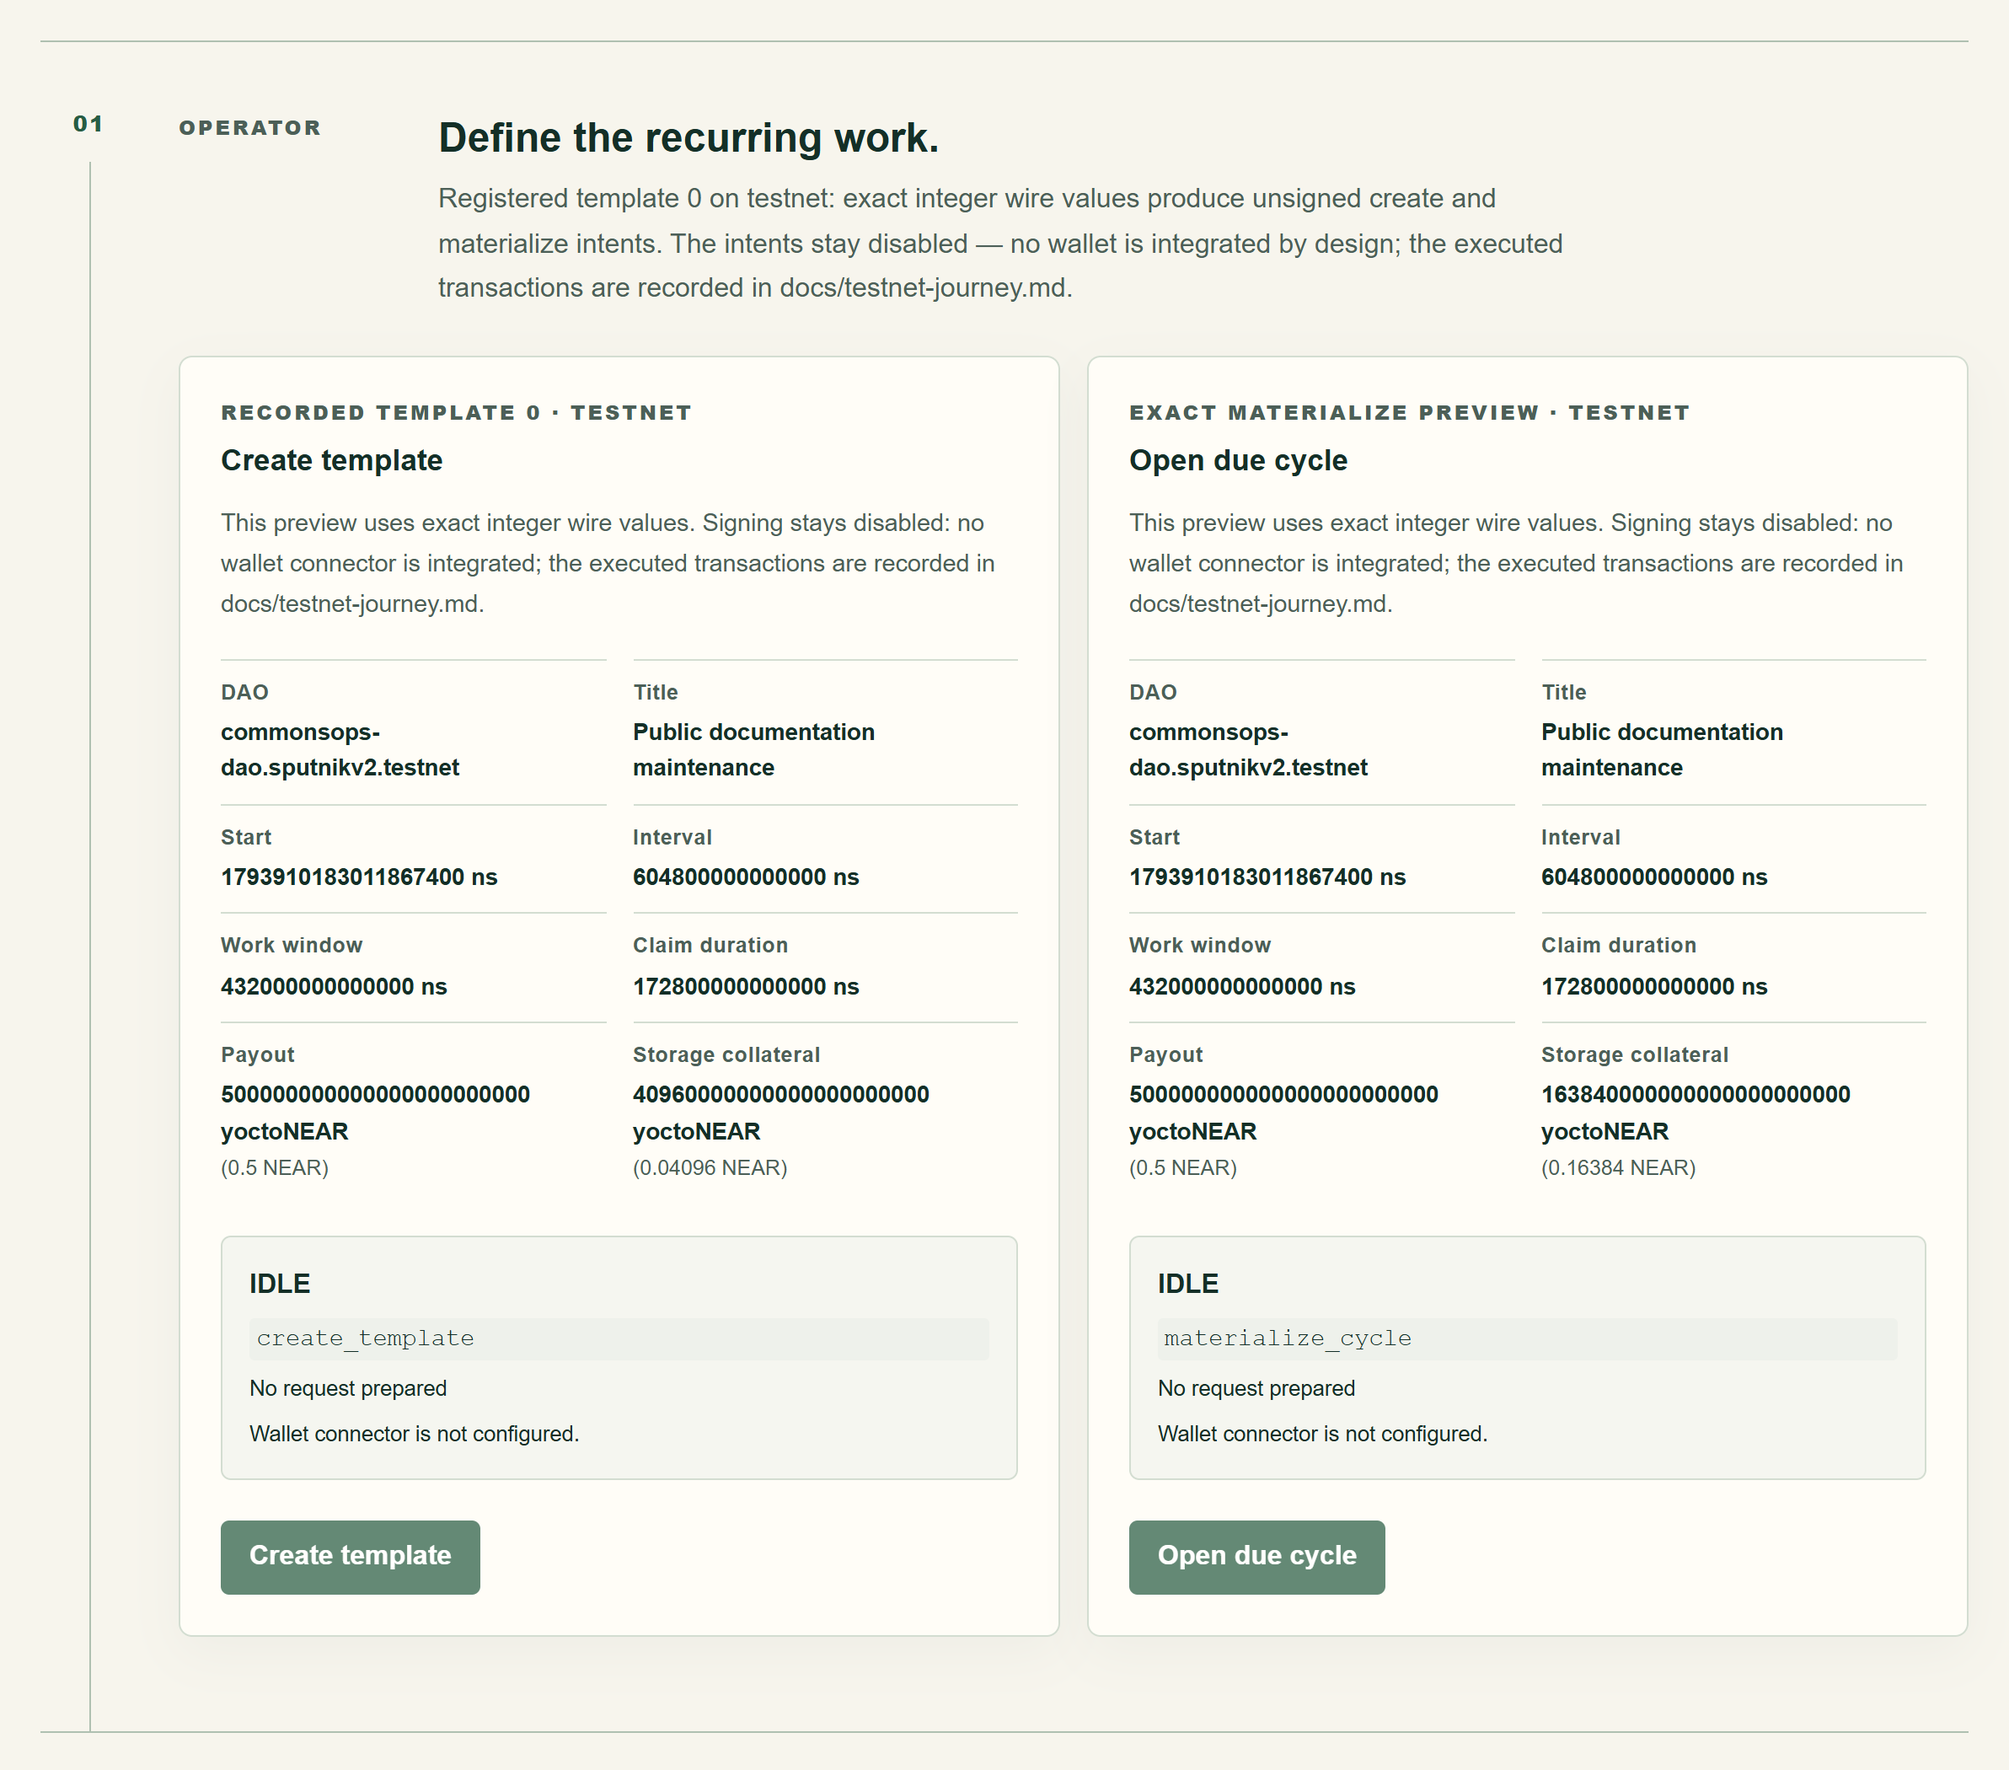
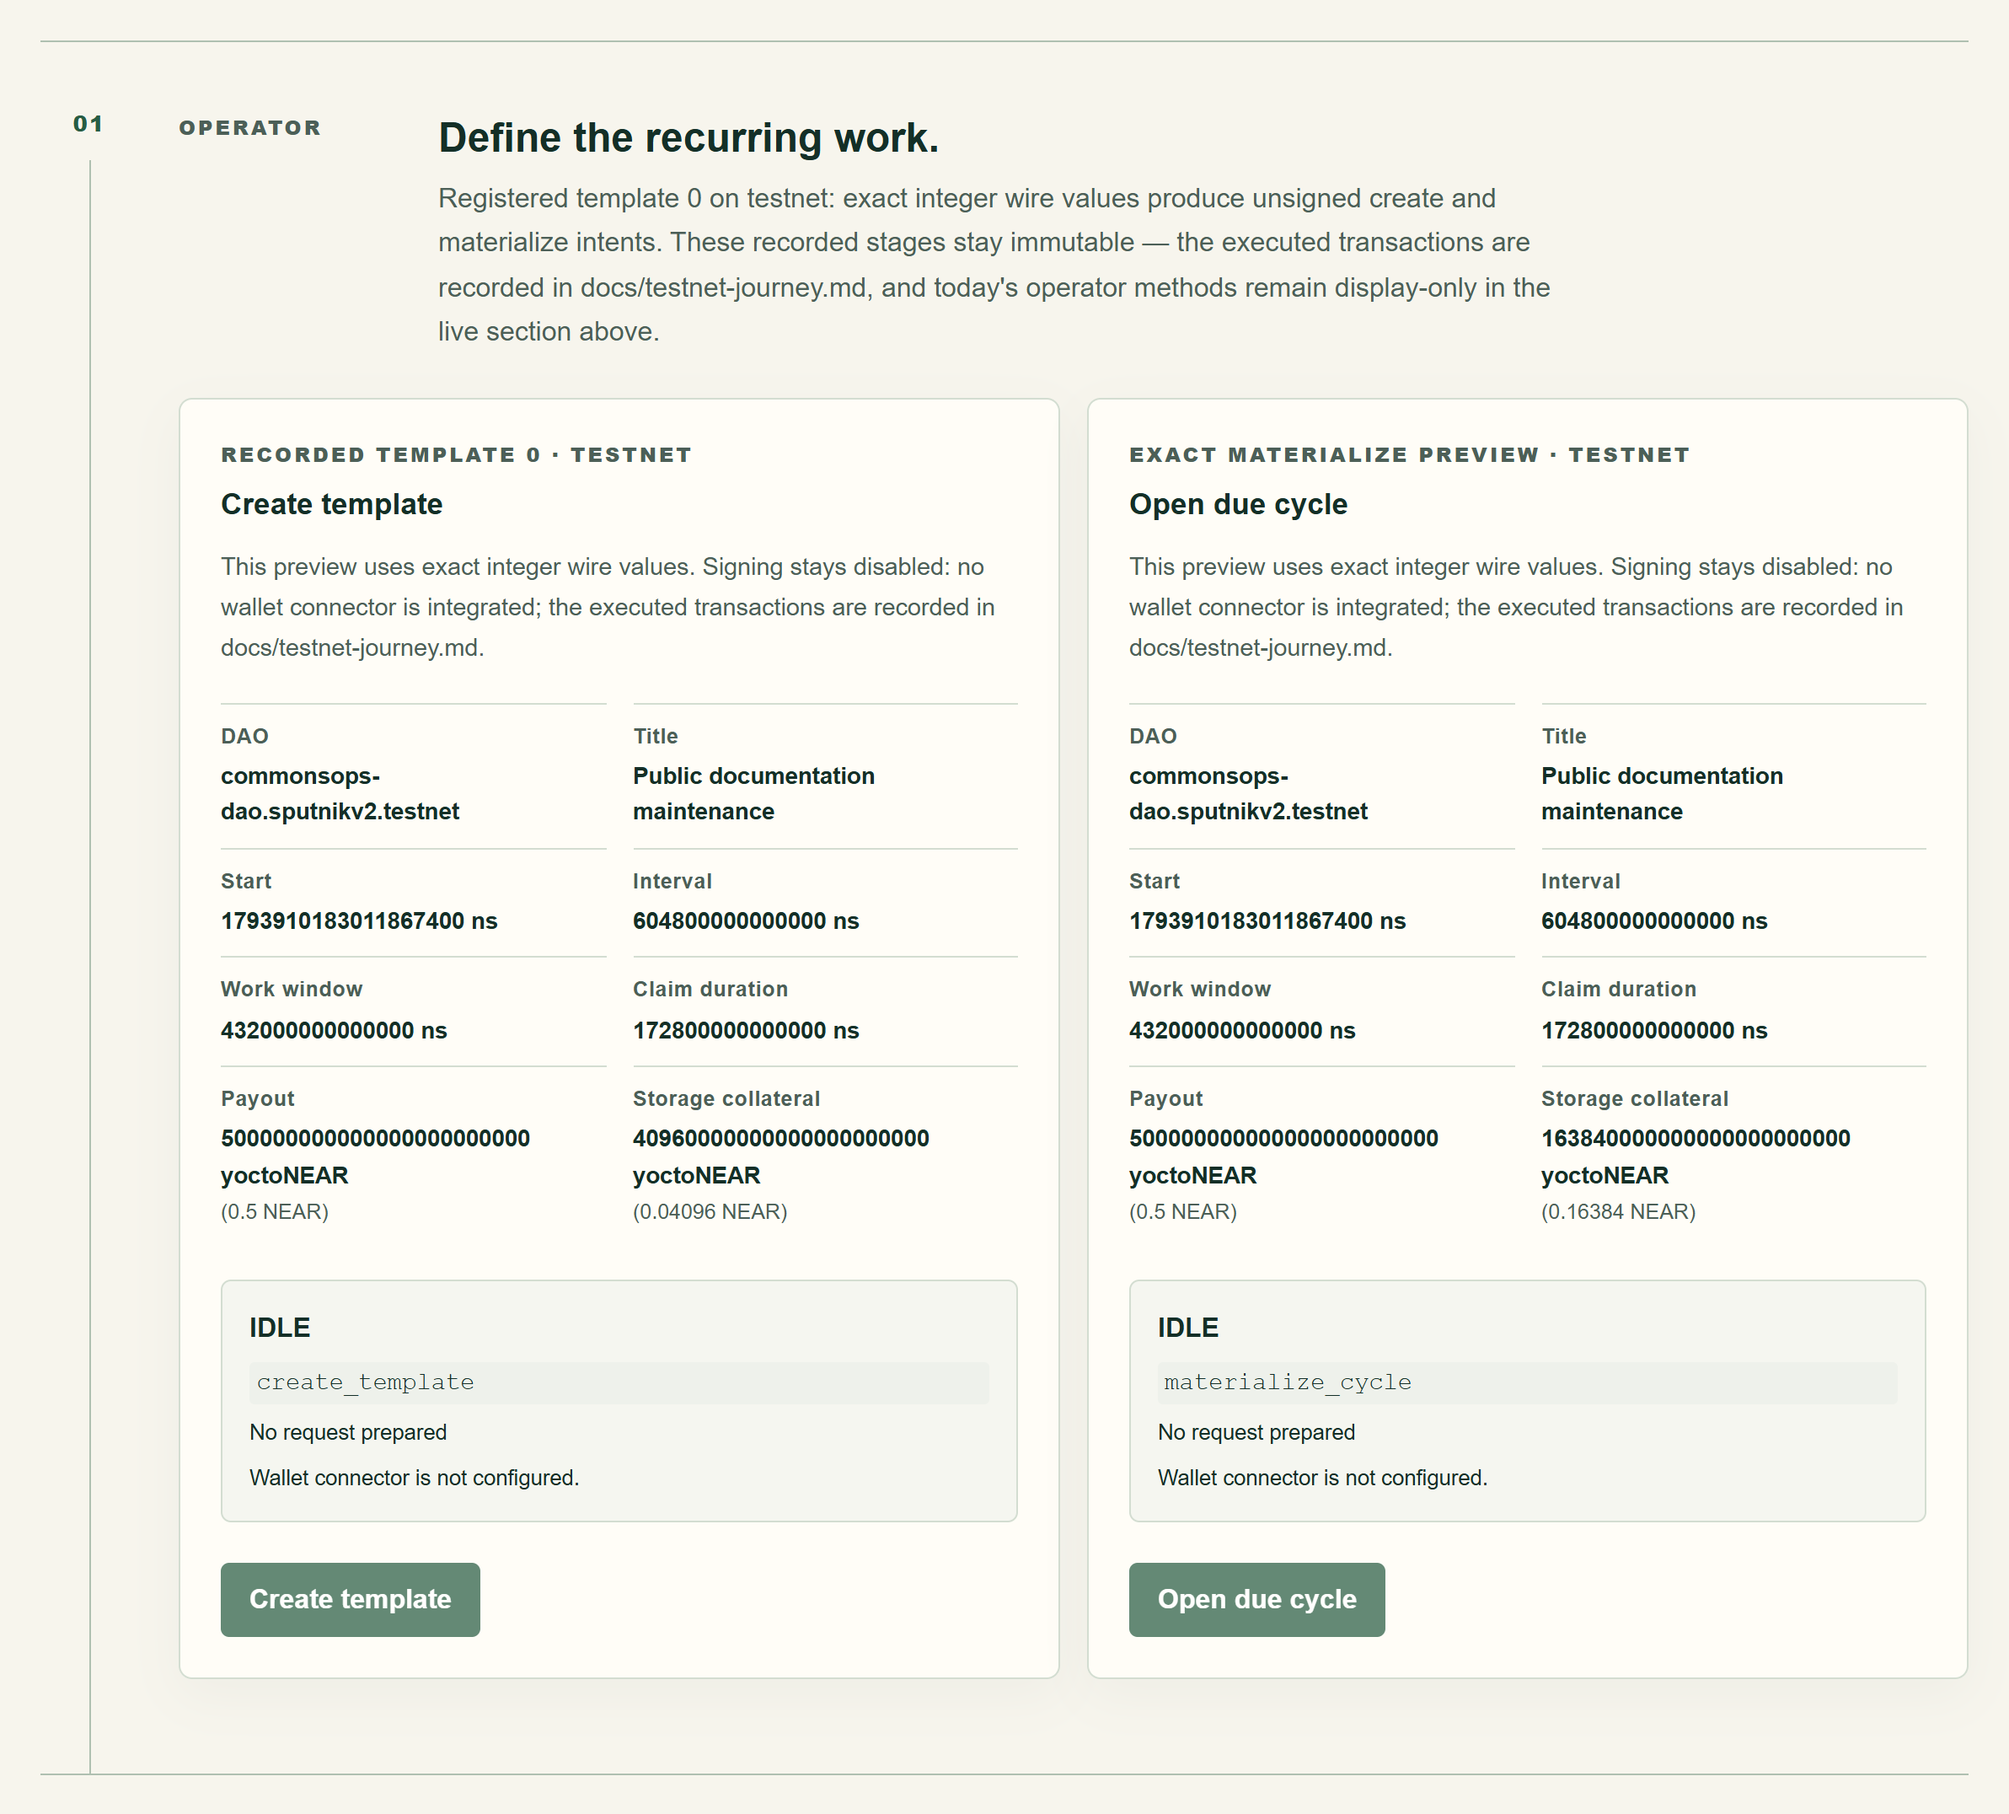
docs: reflect the live registry surface in llms.txt, demo guide, and screenshots
- llms.txt: workspace description and boundaries updated for the live
  surface (real testnet RPC reads, user-signed transactions,
  testnet-only wallet selector; payouts still never simulated in-app)
- demo/README.md: screenshot map rows reworded for the recorded-journey
  workspace, new 09-live-registry row
- screenshots: all frames re-rendered from the live-surface build
  (true 2x Chromium), plus the new 09-live-registry frame showing the
  real RPC reads and the wallet connect control

diff --git a/demo/README.md b/demo/README.md
@@ -28,15 +28,16 @@ place.
 
 | File                                                    | Journey step                                                                                                                                                                                                                                                                                                                | Live testnet evidence in `docs/testnet-journey.md`                                                                                                                                                                                                                                                                                                                         |
 | ------------------------------------------------------- | --------------------------------------------------------------------------------------------------------------------------------------------------------------------------------------------------------------------------------------------------------------------------------------------------------------------------- | -------------------------------------------------------------------------------------------------------------------------------------------------------------------------------------------------------------------------------------------------------------------------------------------------------------------------------------------------------------------------- |
-| `screenshots/01-hero.png`                               | Product hero and the recorded-live-journey banner (stages 1–3 are immutable recorded snapshots; no wallet, RPC, or GitHub request)                                                                                                                                                                                          | Journey overview (network `testnet`, registry `commonsops.testnet`, DAO `commonsops-dao.sputnikv2.testnet`)                                                                                                                                                                                                                                                                |
-| `screenshots/02-network-boundary.png`                   | Connection boundary: testnet registry deployed (`commonsops.testnet`), mainnet isolated and unconfigured; no in-app RPC and no signing by design                                                                                                                                                                            | Same network facts; live operations stay in scripts (below)                                                                                                                                                                                                                                                                                                                |
+| `screenshots/01-hero.png`                               | Product hero and the recorded-live-journey banner (journey stages 1–3 render immutable recorded snapshots)                                                                                                                                                                                                                  | Journey overview (network `testnet`, registry `commonsops.testnet`, DAO `commonsops-dao.sputnikv2.testnet`)                                                                                                                                                                                                                                                                |
+| `screenshots/02-network-boundary.png`                   | Connection boundary: testnet registry deployed (`commonsops.testnet`), mainnet isolated and unconfigured                                                                                                                                                                                                                    | Same network facts; live operations stay in scripts (below)                                                                                                                                                                                                                                                                                                                |
 | `screenshots/03-operator.png`                           | Stage 1 — operator defines the recurring work: unsigned `create_template` and `materialize_cycle` intent previews with the exact recorded template-0 wire values, signing disabled                                                                                                                                          | Journey steps 2–3: template `0` registration ([`FWqT2A6oT8xXRuVkmdxFQbigcLwG9Jao2DfGmie92WH7`](https://explorer.testnet.near.org/transactions/FWqT2A6oT8xXRuVkmdxFQbigcLwG9Jao2DfGmie92WH7)) and cycle `0:0` opened ([`3MV5x4hUjC8Z7uQmcdRJebiyUR4sq67dFJcnUo2nXJCt`](https://explorer.testnet.near.org/transactions/3MV5x4hUjC8Z7uQmcdRJebiyUR4sq67dFJcnUo2nXJCt))        |
 | `screenshots/04-contributor.png`                        | Stage 2 — contributor claims and binds evidence: recorded `CLAIMED` cycle `0:0` with claimant = payout recipient (`commonsops.testnet`), recipient-binding panel, canonical GitHub evidence preview                                                                                                                         | Journey steps 4–5: claim binds recipient ([`8LB4W2qWxaKsRRJMyfyw1NYWiDK6bDjh7ejyRKQ42tYe`](https://explorer.testnet.near.org/transactions/8LB4W2qWxaKsRRJMyfyw1NYWiDK6bDjh7ejyRKQ42tYe)) and immutable evidence submission ([`6sqUZaFfoLacYihADUmBSqKbMS7mxvBsQKcUbzfAWz99`](https://explorer.testnet.near.org/transactions/6sqUZaFfoLacYihADUmBSqKbMS7mxvBsQKcUbzfAWz99)) |
 | `screenshots/05-reviewer-approved-only.png`             | Stage 3 — reviewer boundary: "Approved alone is not payment" (`PENDING_PAYMENT_EVIDENCE` without a finalized causal receipt graph), trust/authorization boundary                                                                                                                                                            | Journey steps 6–7: DAO transfer proposal ([`CAX6EJvvN71BxTP8NDdwmrPiryYeRKcJXK3tPhfp591F`](https://explorer.testnet.near.org/transactions/CAX6EJvvN71BxTP8NDdwmrPiryYeRKcJXK3tPhfp591F)) and council approval ([`ApRvPUsw2d5gn3N4SxTe7Wbv7nPcJRDTtWc7j9LwAoP7`](https://explorer.testnet.near.org/transactions/ApRvPUsw2d5gn3N4SxTe7Wbv7nPcJRDTtWc7j9LwAoP7))              |
 | `screenshots/06-reviewer-paid.png`                      | Stage 3 — verified cycle: real `SUBMITTED` + `LINKED_IMMUTABLE` proposal 0, derived payment state `PAID` with full provenance (transaction hash, action receipt, payout receipt, evidence key, payout block)                                                                                                                | Journey steps 7–9: payout receipt `EnL1wpFNdEsrvJtEP3Uh7cn9CsFpYTmwSX3HDyzYquW2`, registry link ([`FkT3cB5KQpVHZYoXp7cMb3eWhQPYyvqeeXfbcT33yMX2`](https://explorer.testnet.near.org/transactions/FkT3cB5KQpVHZYoXp7cMb3eWhQPYyvqeeXfbcT33yMX2)), reconciliation `APPLIED` / `PAID`                                                                                         |
-| `screenshots/07-state-gallery.png`                      | Honest state handling patterns (loading, empty/unconfigured, pending, error, verified fixture) — no live request ran                                                                                                                                                                                                        | Design invariant: failed/unknown states never render as paid                                                                                                                                                                                                                                                                                                               |
-| `screenshots/08-truth-panel.png`                        | "Implemented today" facts panel: journey data = recorded live journey, live registry `commonsops.testnet` — deployed, wallet signing disabled                                                                                                                                                                               | The live journey lives in `scripts/` and `docs/testnet-journey.md`, not in the browser                                                                                                                                                                                                                                                                                     |
+| `screenshots/07-state-gallery.png`                      | Honest state handling patterns (loading, empty/unconfigured, pending, error, verified fixture)                                                                                                                                                                                                                              | Design invariant: failed/unknown states never render as paid                                                                                                                                                                                                                                                                                                               |
+| `screenshots/08-truth-panel.png`                        | "Implemented today" facts panel: journey data = recorded live journey, live registry `commonsops.testnet` — deployed                                                                                                                                                                                                        | The live journey lives in `scripts/` and `docs/testnet-journey.md`, not in the browser                                                                                                                                                                                                                                                                                     |
 | Live registry section _(screenshot pending re-capture)_ | The clearly labeled live section ("Live registry · NEAR testnet — connect a wallet to interact"): live read-only RPC reads of template 0, the latest cycle, the next period, and foundation status; with a connected testnet wallet the contributor actions become sendable and submitted transactions link to the explorer | Same registry as every step above (`commonsops.testnet`); live reads are verifiable with `node scripts/smoke-testnet.mjs commonsops.testnet`, and `docs/testnet-journey.md` documents what is sendable vs display-only                                                                                                                                                     |
+| `screenshots/09-live-registry.png`                      | Live registry section: real testnet RPC reads (final block, template 0, cycle 0:0, next period), wallet connect for wallet-signed contributor actions, operator methods display-only                                                                                                                                        | Live registry `commonsops.testnet`; the same reads are re-derivable with `node scripts/reconcile-live.mjs` and the smoke runner                                                                                                                                                                                                                                            |
 
 ## Provenance statement
 
